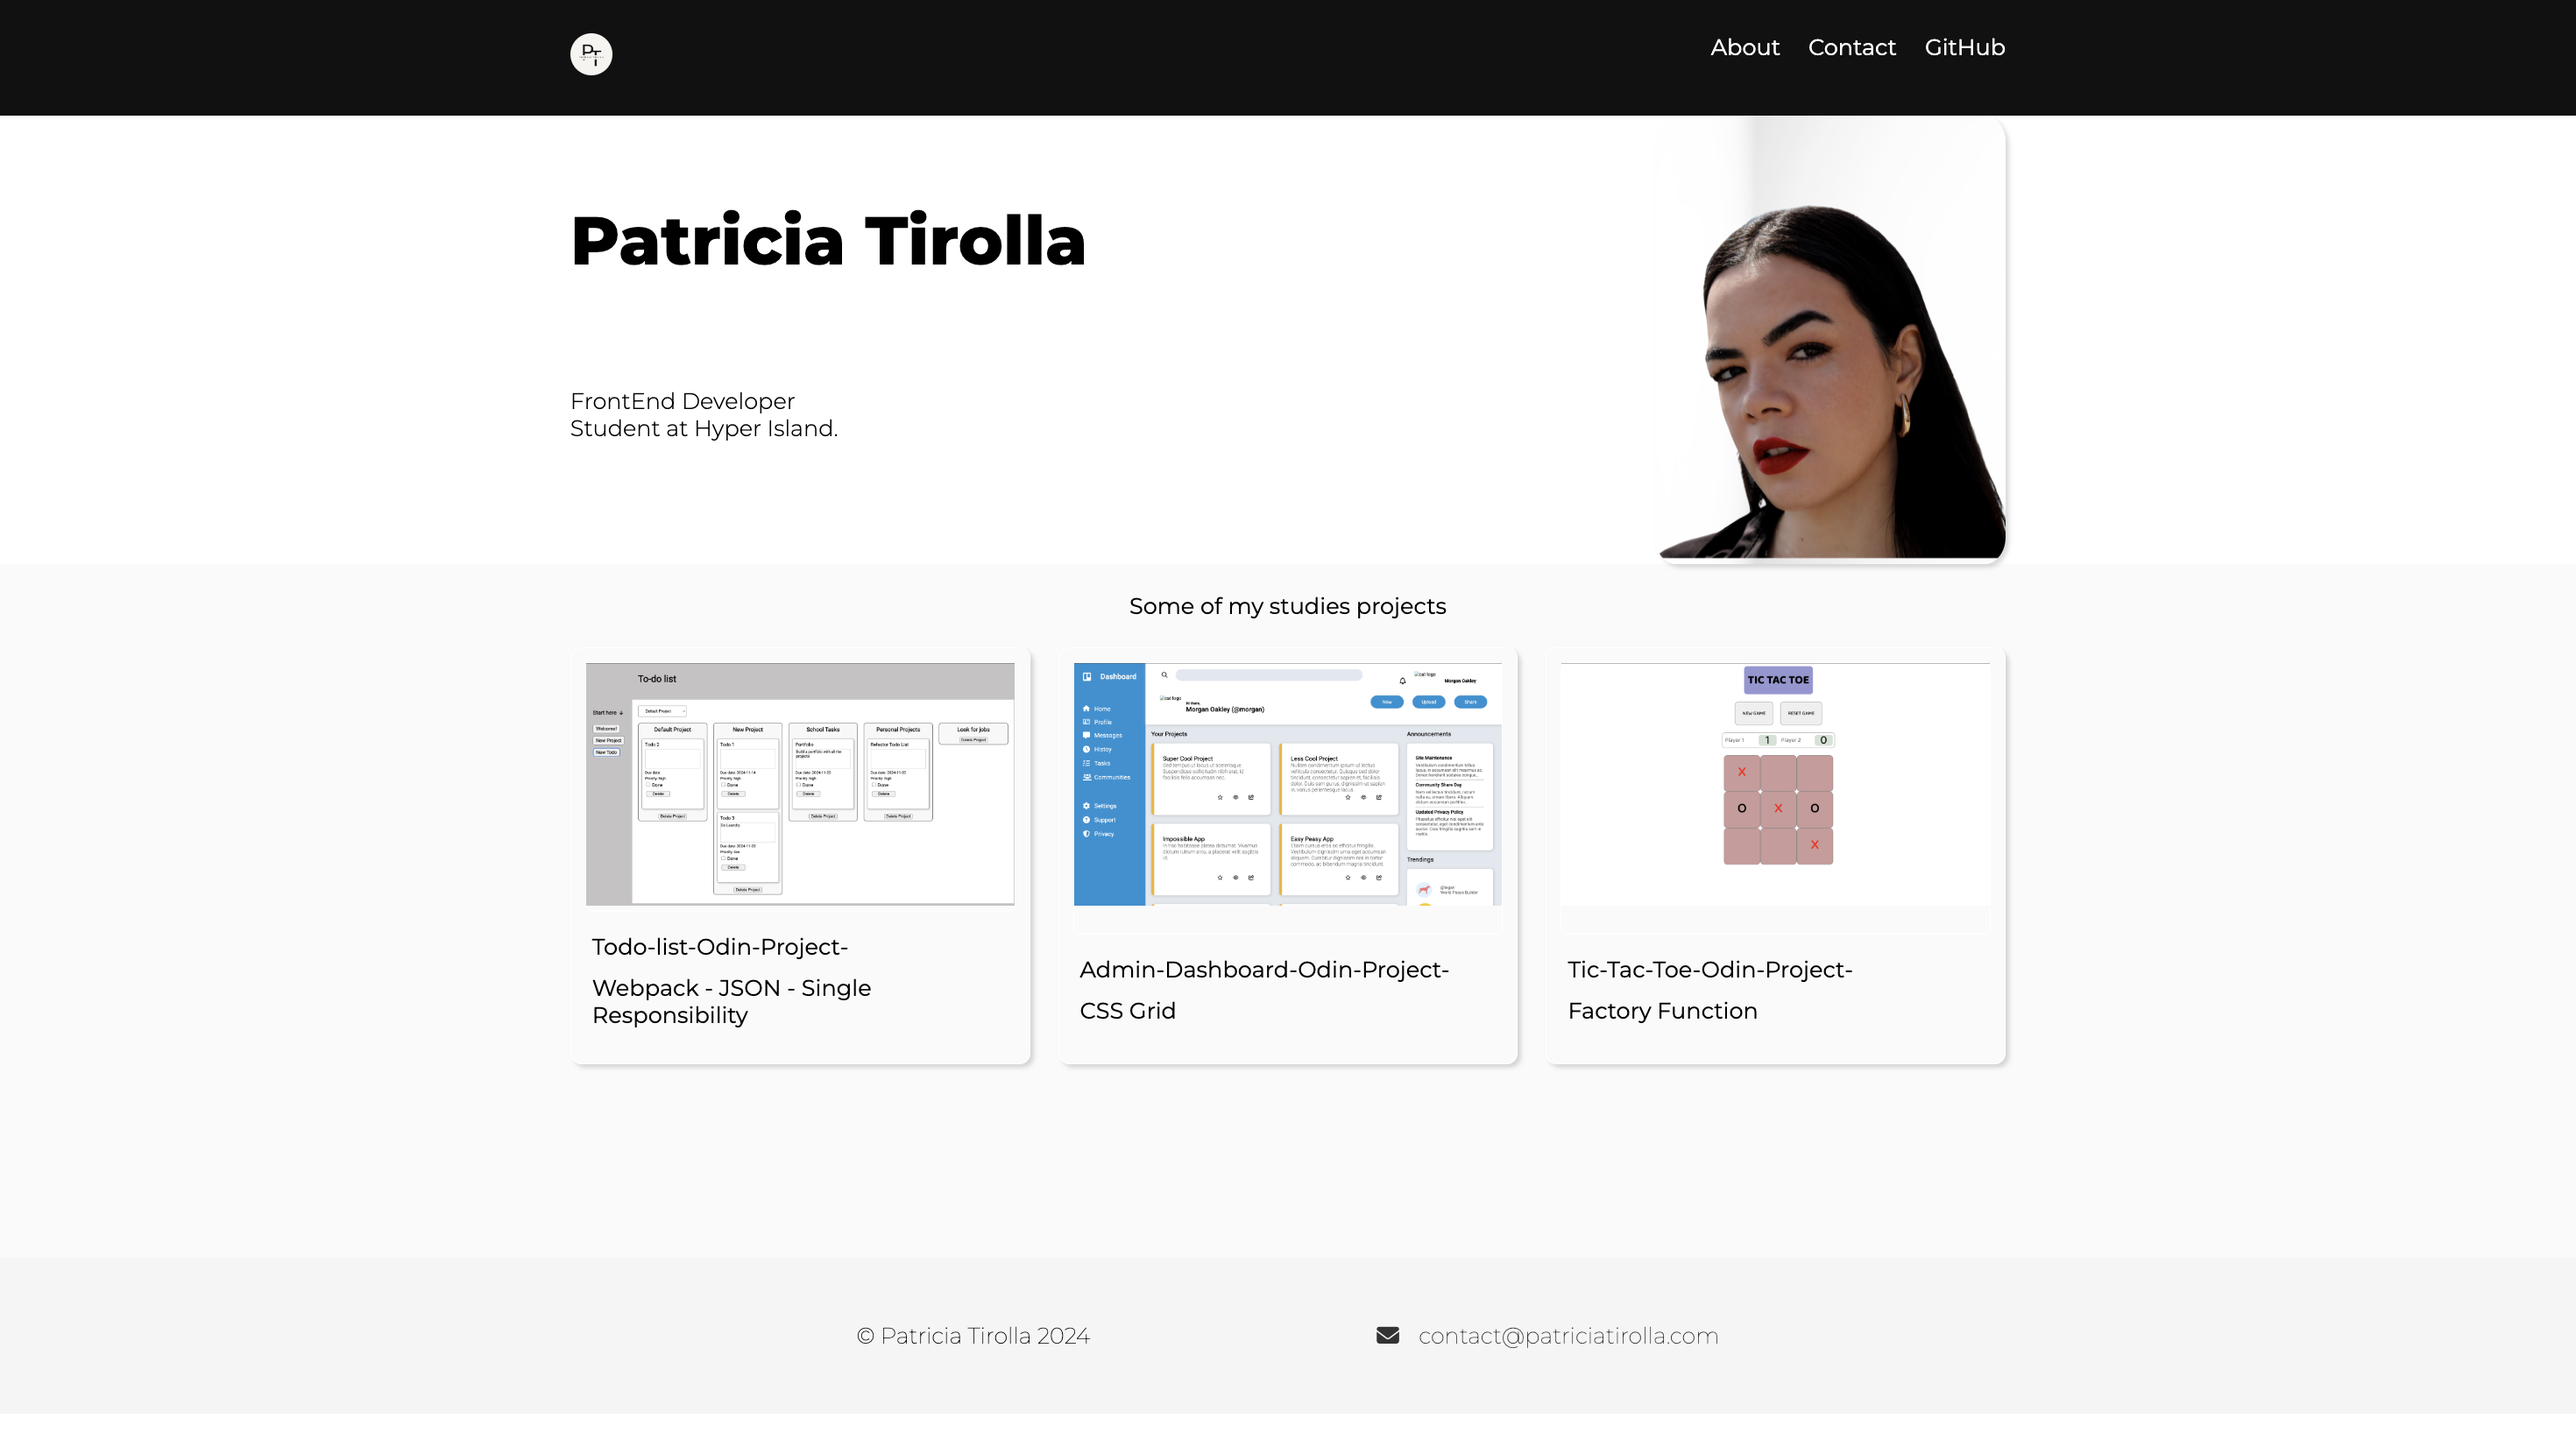
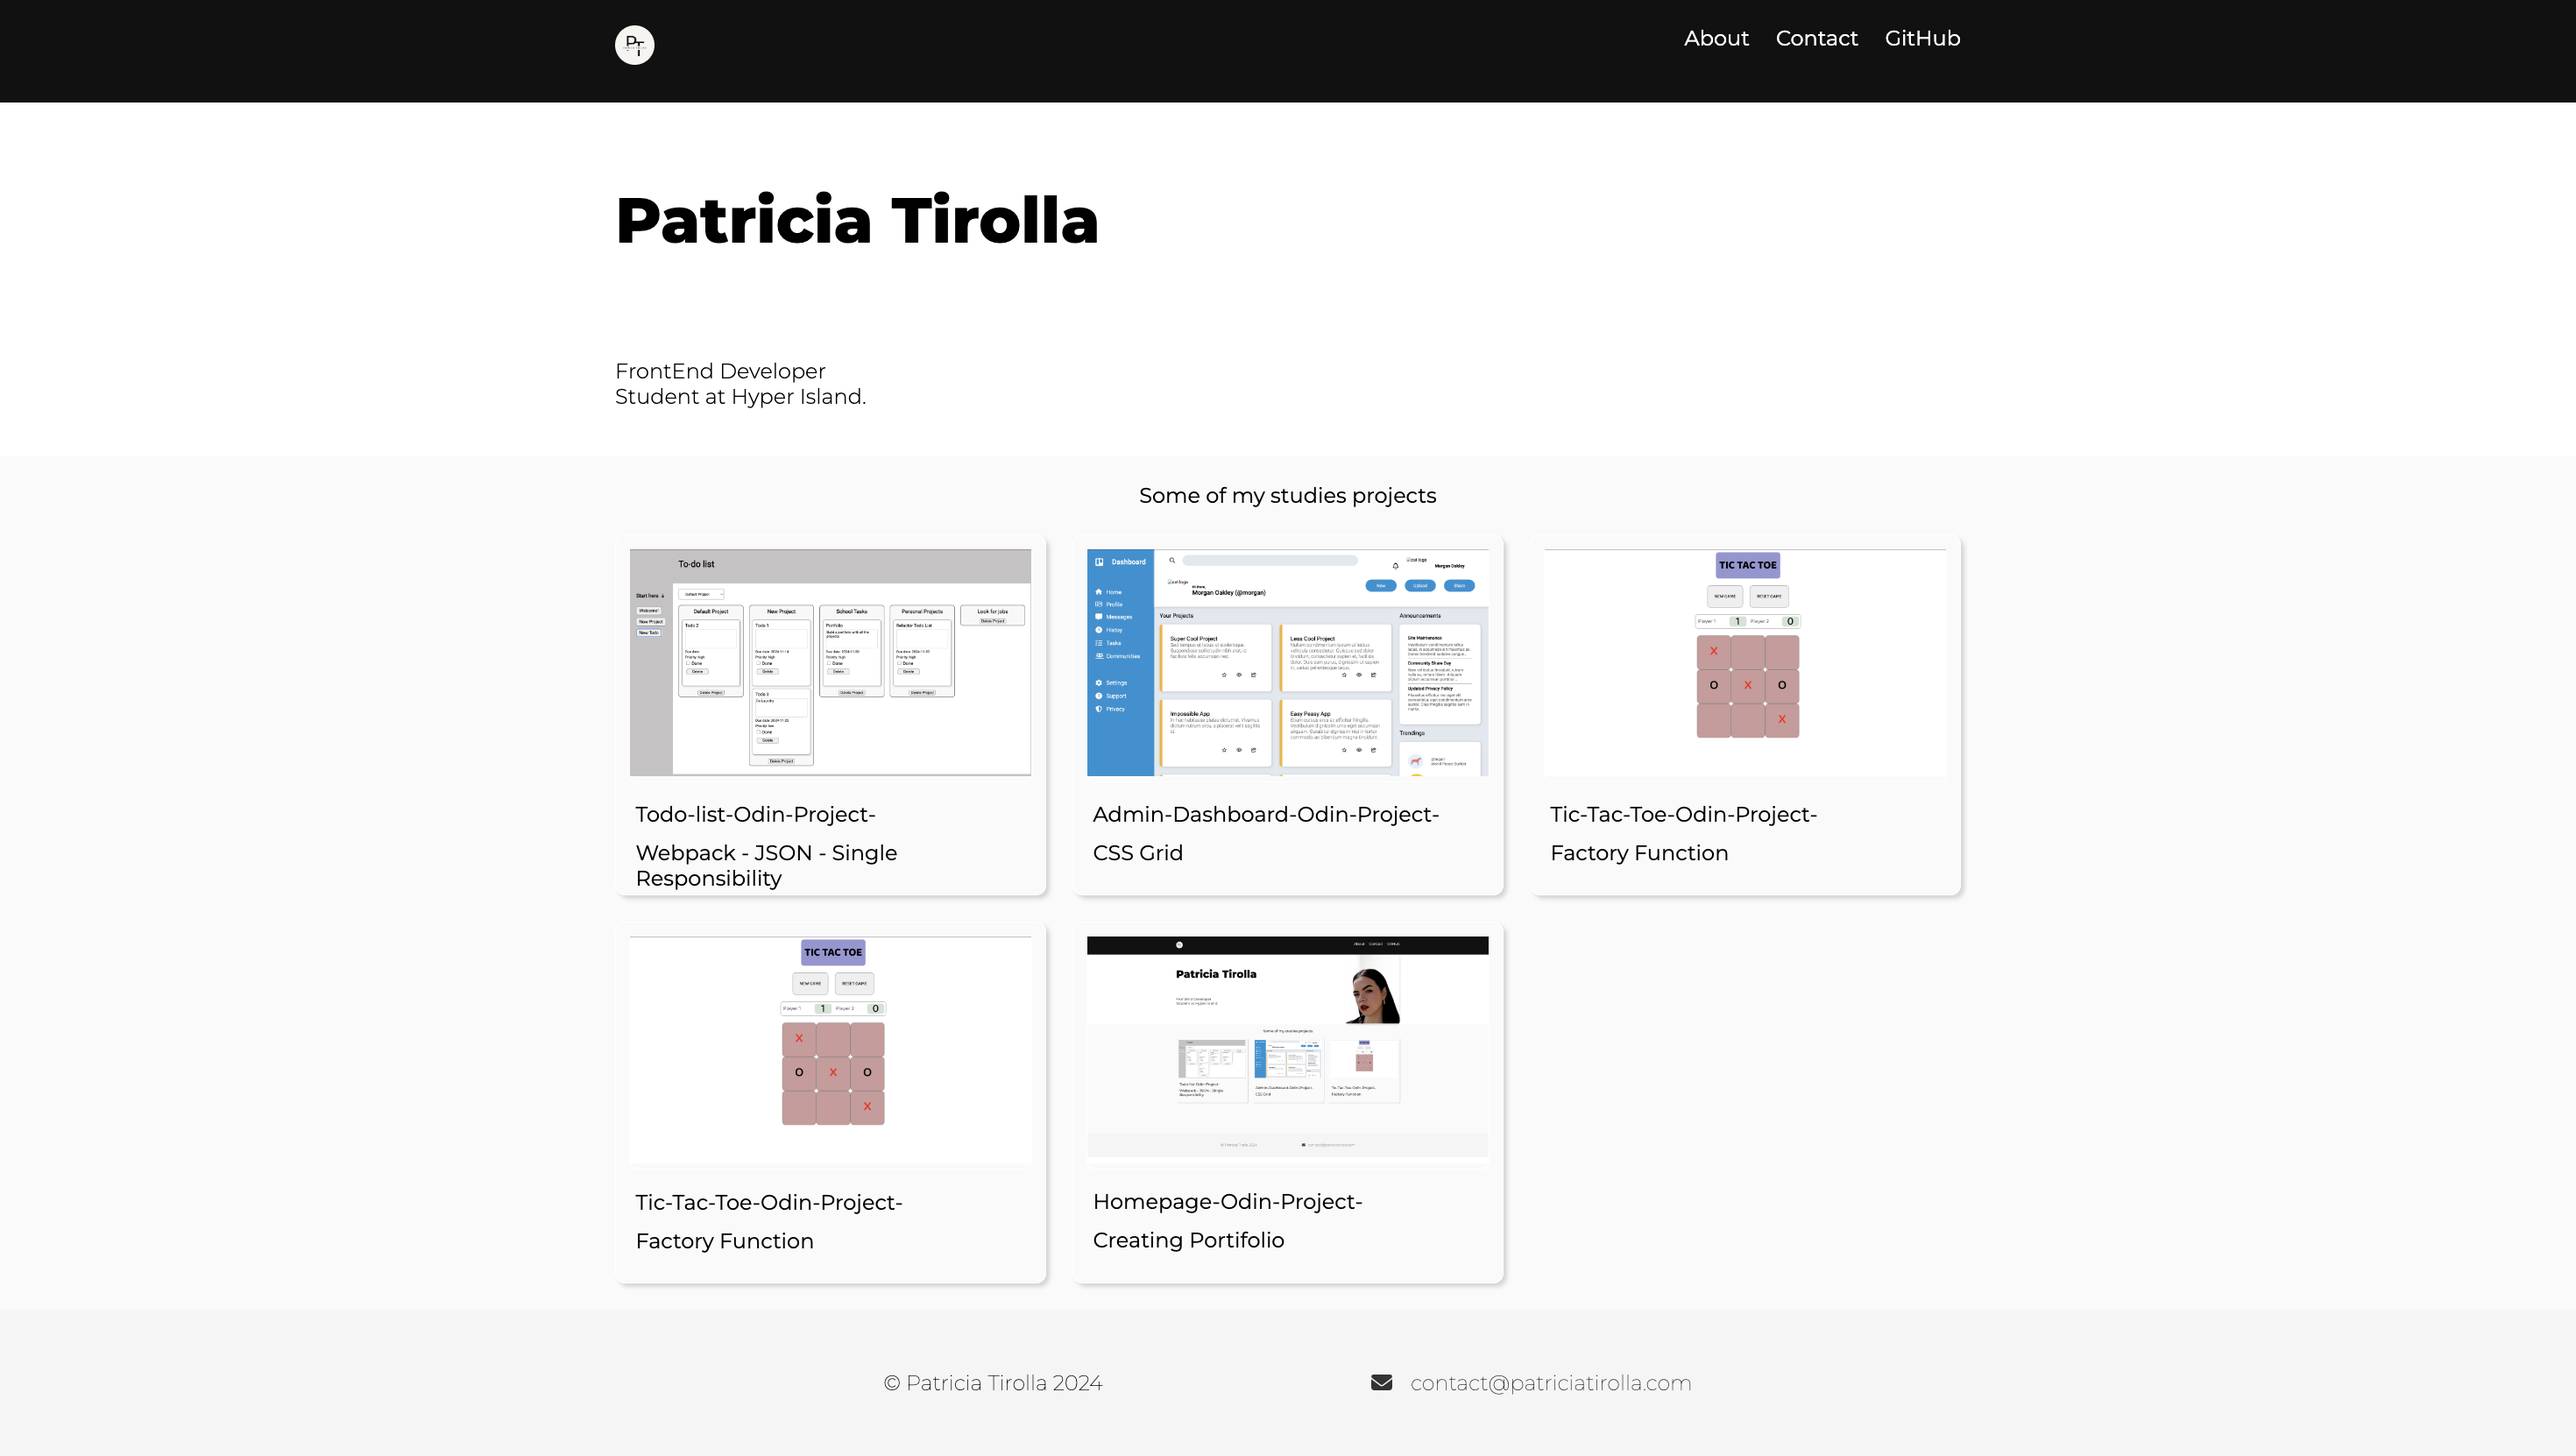
Remove profile pic

diff --git a/style.css b/style.css
@@ -1,4 +1,3 @@
-
 :root {
     --background-dark: #111111;
     --background-light: #FFFFFF;
@@ -10,15 +9,11 @@
 
     --hover-gray: #888888;
 
-    --shadow: rgba(0, 0, 0, 0.15) 2.4px 2.4px 3.2px;;
+    --shadow: rgba(0, 0, 0, 0.15) 2.4px 2.4px 3.2px;
+    ;
 }
 
 /* --------------------------- GLOBAL */
-
-/* * {
-    
-    margin: 0;
-} */
 
 body {
     font-family: 'Montserrat';
@@ -50,13 +45,13 @@ header {
             border-radius: 50px;
             ;
         }
-    
+
         #header-nav-container {
             display: flex;
             width: 30vw;
             justify-content: end;
             gap: 20px;
-    
+
             a {
                 color: var(--font-color-light);
                 text-decoration: none;
@@ -65,16 +60,27 @@ header {
     }
 }
 
-main {    
+main {
 
     #about-section {
         display: flex;
         justify-content: center;
         gap: 20px;
-
+        height: 40vh;
         padding: 0 30px;
 
-        background-color: var(--background-light);
+        background-image: url("./assets/background-img.png");
+        background-size: cover;
+        background-position: center;
+
+        @media (max-width: 768px) {
+            background-image: url("./assets/background-img-small.png");
+        }
+
+        @media (max-width: 425px) {
+            background-color: var(--background-light);
+            background-image: none;
+        }
 
         #about-section-container {
             display: flex;
@@ -90,33 +96,38 @@ main {
             @media (max-width: 425px) {
                 flex-direction: column;
                 align-items: center;
+                img:
             }
 
             #about-section-text-container {
                 display: flex;
                 flex-direction: column;
                 padding: 20px 0;
-    
+
                 h1 {
                     padding-bottom: 20px;
                     font-size: 3em;
                     font-weight: 800;
                 }
-    
+
                 p {
                     font-weight: 300;
                 }
             }
-    
-            img {
+
+            /* img {
                 display: flex;
-    
+
                 border-radius: 6%;
                 box-shadow: var(--shadow);
-            }
+
+                @media(max-width: 425px) {
+                    display: none;
+                }
+            } */
         }
 
-        
+
     }
 
     #projects-section {
@@ -141,12 +152,16 @@ main {
                 padding: 20px;
             }
 
+            @media (max-width: 425px) {
+                font-size: 0.9rem;
+            }
+
             #projects-grid {
                 display: grid;
                 grid-template: repeat(2, 275px) / repeat(3, 1fr);
                 justify-items: center;
                 gap: 20px;
-                
+
                 @media(max-width: 768px) {
                     grid-template: 1fr / repeat(2, 1fr);
                     height: 310px;
@@ -167,8 +182,8 @@ main {
                     border: 0.5px solid var(--background-light);
                     border-radius: 8px;
                     box-shadow: var(--shadow);
-                    
-    
+
+
                     .project-text-container {
                         padding: 10px 0;
 
@@ -177,27 +192,27 @@ main {
                             font-size: 1rem;
                         }
                     }
-                    
-    
+
+
                     .project-link-container {
                         display: flex;
                         height: 70%;
-    
-    
+
+
                         border: 0.5px solid var(--background-light);
                         border-radius: 6px;
-    
+
                         img {
                             width: 100%;
                         }
                     }
-    
+
                 }
             }
 
         }
 
-        
+
     }
 
     #contact-session {
@@ -213,37 +228,41 @@ footer {
     padding: 30px;
     background-color: var(--background-footer);
 
-        #footer-container {
-            display: flex;
-            justify-content: space-evenly;
-            align-items: center;
+    #footer-container {
+        display: flex;
+        justify-content: space-evenly;
+        align-items: center;
 
-            width: 100%;
-            max-width: 1024px;
+        width: 100%;
+        max-width: 1024px;
 
-            @media (max-width: 425px) {
-                flex-direction: column-reverse;
-            }
-
-            p {
-                font-weight: 100;
-            }
-
-            a {
-                color: var(--font-color-dark);
-                text-decoration: none;
-                font-weight: 100;
-            }
-
-            i {
-                padding-right: 10px;
-            }
+        @media (max-width: 425px) {
+            flex-direction: column-reverse;
         }
-        
+
+        p {
+            font-weight: 100;
+        }
+
+        a {
+            color: var(--font-color-dark);
+            text-decoration: none;
+            font-weight: 100;
+        }
+
+        i {
+            padding-right: 10px;
+        }
+    }
+
 }
 
 /* --------------------------- HOVER */
 
 .header-nav:hover {
     color: var(--hover-gray);
+}
+
+#profile-img:hover {
+   
 }

diff --git a/index.html b/index.html
@@ -39,7 +39,7 @@
                     <p>FrontEnd Developer<br>
                         Student at Hyper Island.</p>
                 </div>
-                <img src="./assets/profile-light-background.png" alt="" width="250px" height="320px">
+                <!-- <img id="profile-img" src="./assets/profile-duocolor.png" alt="" width="250px" height="320px"> -->
             </div>
         </section>
         <section id="projects-section">
@@ -119,7 +119,7 @@
                         </div>
 
                     </div>
-                    <div class="project-cell"></div>
+                    <!-- <div class="project-cell"></div> -->
                 </div>
             </div>
         </section>
